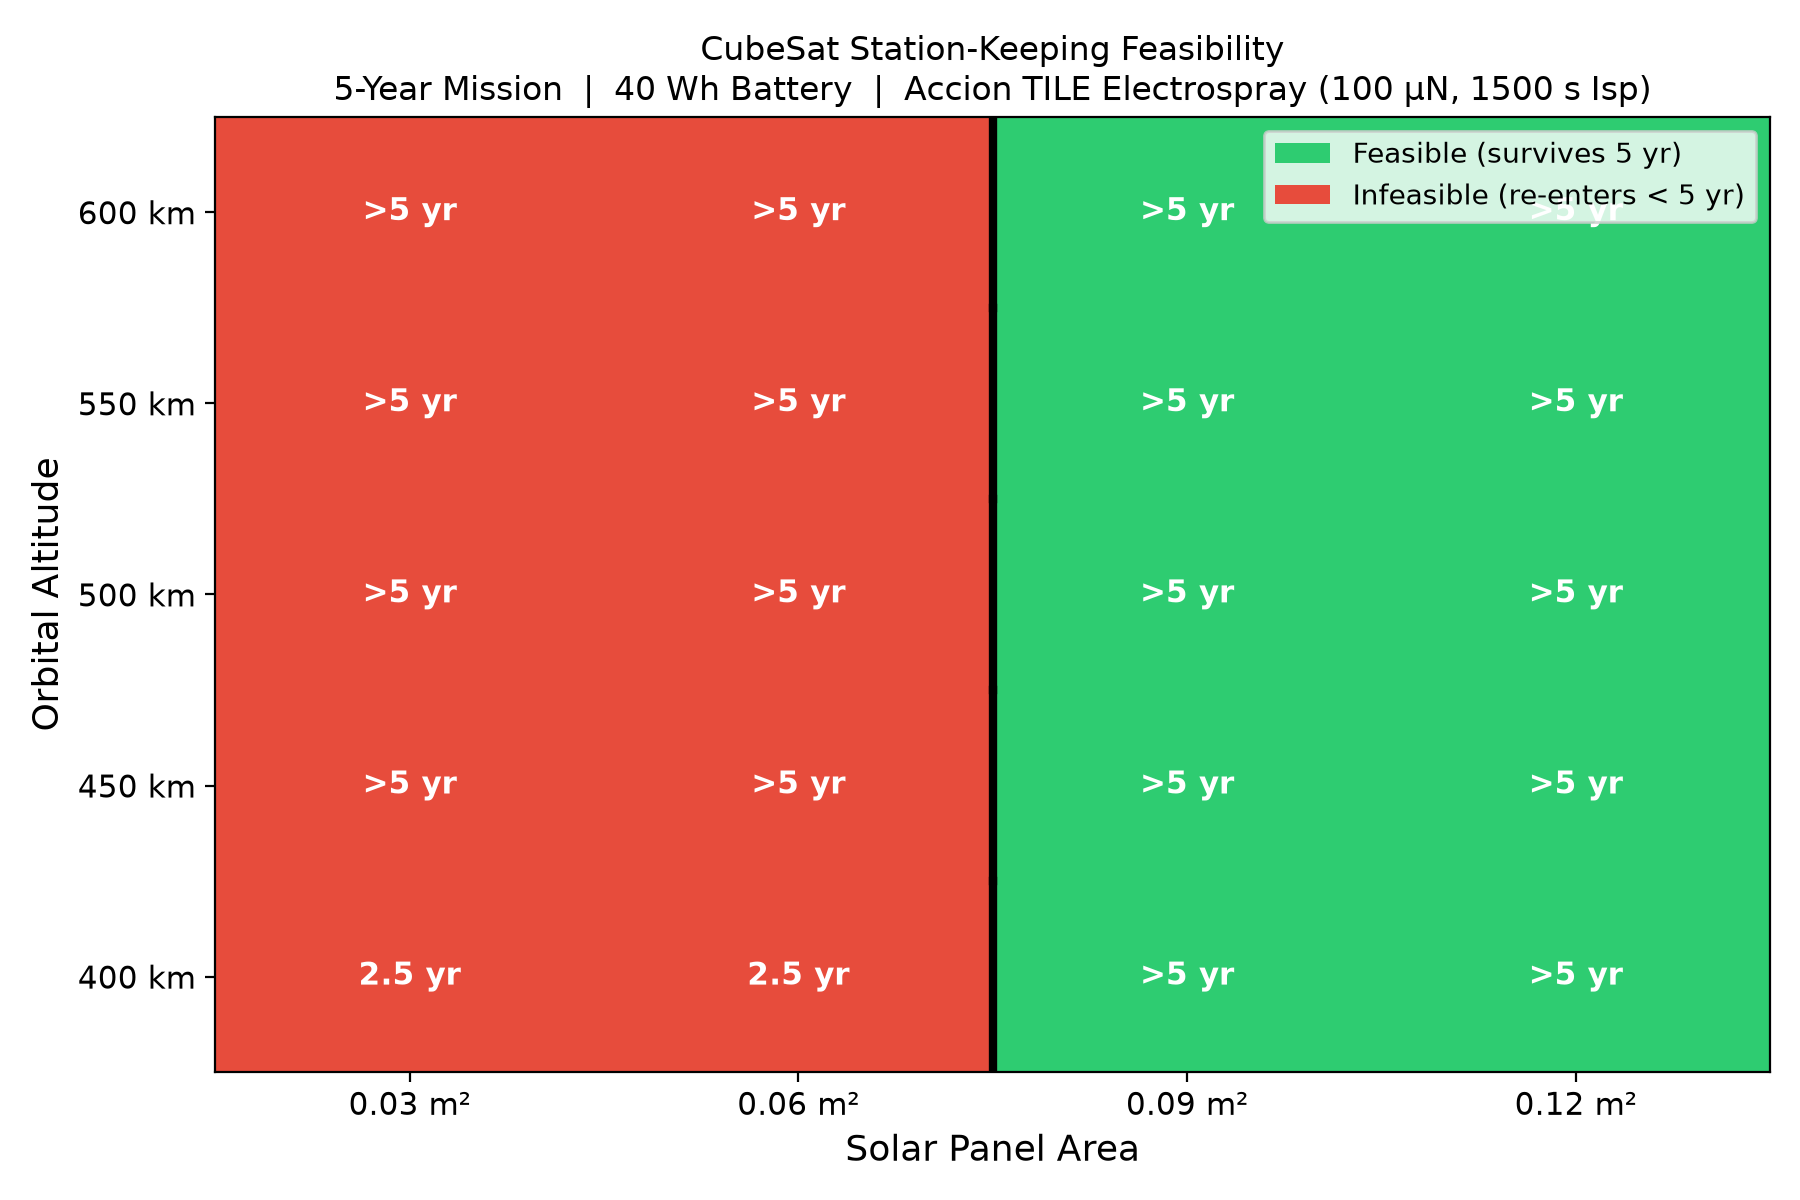
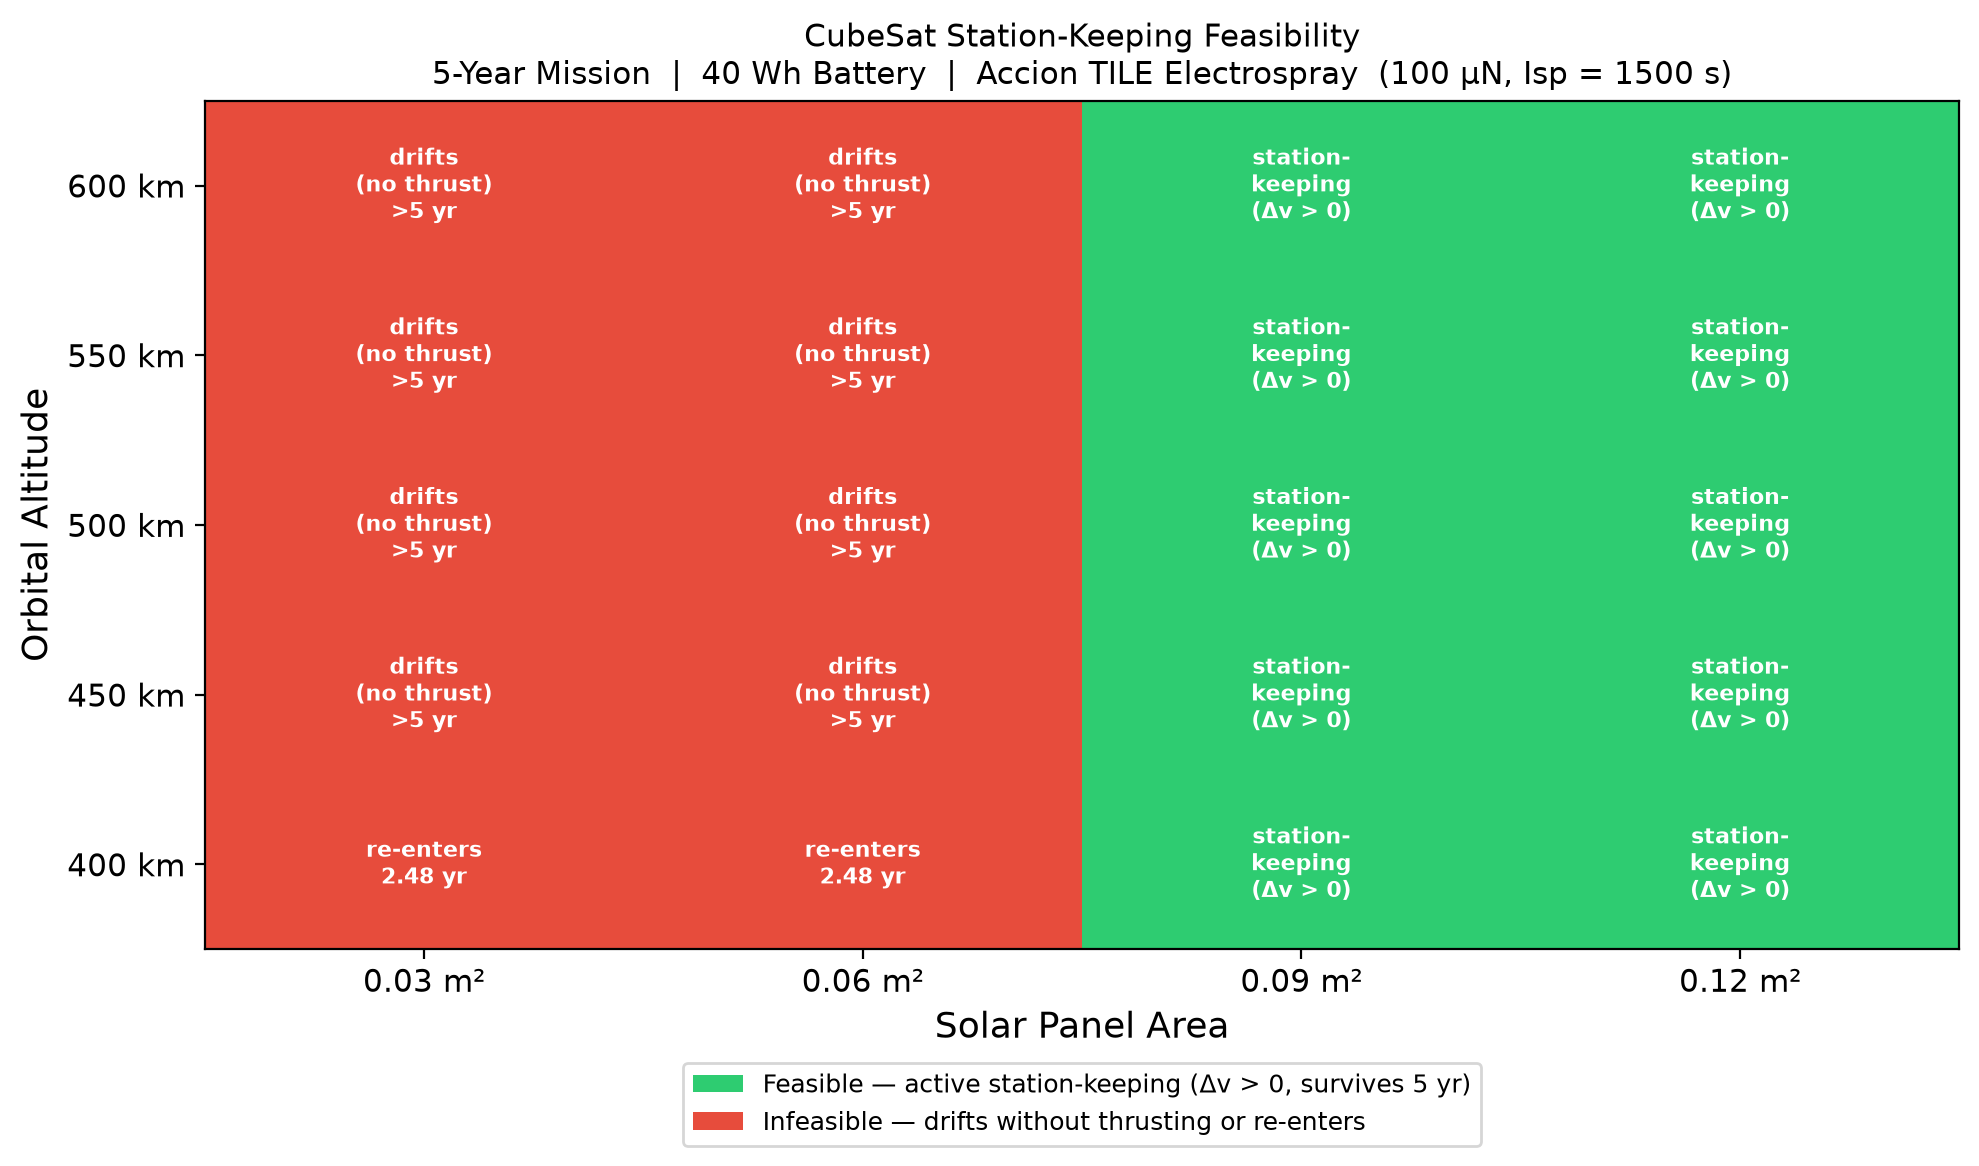
sweep v2: all reviewer figure bugs fixed (C1 C4 M3 m6), results_v2.csv regenerated

diff --git a/sweep_v2.py b/sweep_v2.py
@@ -1,0 +1,334 @@
+# sweep.py — v2 (corrected after pre-submission peer review)
+# Runs the full parameter sweep, regenerates results_v2.csv, and
+# produces all four paper figures from one consistent run.
+#
+# Changes from v1:
+#  C1  — Fine threshold regenerated at 0.001 m² steps; peak-power floor added to Fig 4
+#  C4  — Fig 1: color and cell text now encode the same feasibility quantity
+#  M3  — Fig 2: FIXED loop indentation bug (all panel areas now plotted); anchor case
+#          now shows altitude WITH no-thrust overlay + cumulative Δv, matching caption
+#  M4  — Feasible count computed from station_keeping_feasible column (30/30, not 24/36)
+#  m6  — Fig 3: overlapping 0.03/0.06 and 0.09/0.12 series explicitly annotated
+#  Other — Key findings summary updated with correct counts and threshold values
+#
+# CubeSat EPS + Station-Keeping Research — Sarim, 2026
+# github.com/sarim432/cubesat-eps-stationkeeping
+
+import numpy as np
+import pandas as pd
+import matplotlib.pyplot as plt
+import matplotlib.colors as mcolors
+from matplotlib.patches import Patch
+from itertools import product
+from simulator_v1 import simulate   # your unchanged simulator
+
+# ══════════════════════════════════════════════════════════════════════════════
+# SWEEP GRID
+# ══════════════════════════════════════════════════════════════════════════════
+ALTITUDES_KM   = [400, 450, 500, 550, 600]
+PANEL_AREAS_M2 = [0.03, 0.06, 0.09, 0.12]
+BATTERY_WH     = [20, 40, 80]
+SIM_YEARS      = 5.0
+
+total_runs = len(ALTITUDES_KM) * len(PANEL_AREAS_M2) * len(BATTERY_WH)
+print(f"Running {total_runs} simulations × {SIM_YEARS:.0f} years each ...")
+
+# ══════════════════════════════════════════════════════════════════════════════
+# RUN SWEEP — save results_v2.csv
+# ══════════════════════════════════════════════════════════════════════════════
+records = []
+for alt, area, batt in product(ALTITUDES_KM, PANEL_AREAS_M2, BATTERY_WH):
+    r = simulate(alt, panel_area_m2=area, battery_wh=batt, sim_years=SIM_YEARS)
+
+    # Station-keeping feasible = thruster actually fired AND satellite survived
+    sk_feasible = r['survived'] and (r['total_dv_ms'] > 0)
+
+    records.append({
+        'altitude_km'              : alt,
+        'panel_area_m2'            : area,
+        'battery_wh'               : batt,
+        'survived'                 : r['survived'],
+        'station_keeping_feasible' : sk_feasible,
+        'lifetime_years'           : round(r['lifetime_years'], 3),
+        'total_dv_ms'              : round(r['total_dv_ms'],    3),
+        'prop_used_g'              : round(r['prop_used_g'],     3),
+        'mean_soc_pct'             : round(r['mean_soc'] * 100, 1),
+    })
+
+df = pd.DataFrame(records)
+df.to_csv('results_v2.csv', index=False)
+print(f"Saved {len(df)} results → results_v2.csv\n")
+
+# ══════════════════════════════════════════════════════════════════════════════
+# FIGURE 1 — Feasibility heatmap
+# FIX C4: color and cell annotation now BOTH encode station_keeping_feasible.
+#          Red cells correctly say what actually happened (drifts / re-enters).
+# ══════════════════════════════════════════════════════════════════════════════
+df40 = df[df['battery_wh'] == 40].copy()
+
+feas_grid = df40.pivot(
+    index='altitude_km', columns='panel_area_m2',
+    values='station_keeping_feasible'
+).astype(int)
+
+life_grid = df40.pivot(
+    index='altitude_km', columns='panel_area_m2', values='lifetime_years')
+
+surv_grid = df40.pivot(
+    index='altitude_km', columns='panel_area_m2', values='survived')
+
+cmap = mcolors.ListedColormap(['#e74c3c', '#2ecc71'])
+fig, ax = plt.subplots(figsize=(10, 6))
+ax.imshow(feas_grid.values, cmap=cmap, vmin=0, vmax=1,
+          aspect='auto', origin='lower',
+          extent=[-0.5, len(PANEL_AREAS_M2)-0.5,
+                  -0.5, len(ALTITUDES_KM)-0.5])
+
+for i, alt in enumerate(ALTITUDES_KM):
+    for j, area in enumerate(PANEL_AREAS_M2):
+        sk   = feas_grid.loc[alt, area]     # 1 = feasible, 0 = infeasible
+        lt   = life_grid.loc[alt, area]
+        surv = surv_grid.loc[alt, area]
+
+        # Cell text describes WHAT ACTUALLY HAPPENED (matches color)
+        if sk:
+            cell_text = f'station-\nkeeping\n(Δv > 0)'
+        elif surv:
+            # Survived but never thrusted → drifted from target orbit
+            cell_text = f'drifts\n(no thrust)\n>{SIM_YEARS:.0f} yr'
+        else:
+            cell_text = f're-enters\n{lt:.2f} yr'
+
+        ax.text(j, i, cell_text,
+                ha='center', va='center',
+                fontsize=8, fontweight='bold', color='white')
+
+ax.set_xticks(range(len(PANEL_AREAS_M2)))
+ax.set_xticklabels([f'{a:.2f} m²' for a in PANEL_AREAS_M2], fontsize=11)
+ax.set_yticks(range(len(ALTITUDES_KM)))
+ax.set_yticklabels([f'{h} km' for h in ALTITUDES_KM], fontsize=11)
+ax.set_xlabel('Solar Panel Area', fontsize=13)
+ax.set_ylabel('Orbital Altitude', fontsize=13)
+ax.set_title(
+    'CubeSat Station-Keeping Feasibility\n'
+    '5-Year Mission  |  40 Wh Battery  |  Accion TILE Electrospray  '
+    '(100 µN, Isp = 1500 s)',
+    fontsize=11)
+
+legend_elements = [
+    Patch(facecolor='#2ecc71',
+          label='Feasible — active station-keeping (Δv > 0, survives 5 yr)'),
+    Patch(facecolor='#e74c3c',
+          label='Infeasible — drifts without thrusting or re-enters'),
+]
+ax.legend(handles=legend_elements, loc='upper center',
+          bbox_to_anchor=(0.5, -0.12), fontsize=9, ncol=1)
+plt.tight_layout()
+plt.savefig('fig1_feasibility_heatmap.png', dpi=200, bbox_inches='tight')
+plt.show()
+print("Saved: fig1_feasibility_heatmap.png")
+
+
+# ══════════════════════════════════════════════════════════════════════════════
+# FIGURE 2 — Anchor case: altitude history + cumulative Δv
+# FIX M3: (a) loop indentation was the bug in v1 — this figure does NOT use a
+#           loop over panel areas; it shows the single anchor case (0.09 m²)
+#           WITH the no-thruster decay overlaid so the station-keeping effect
+#           is visible, matching the caption in the paper draft.
+# ══════════════════════════════════════════════════════════════════════════════
+r_thrusting   = simulate(500, panel_area_m2=0.09, battery_wh=40, sim_years=SIM_YEARS)
+r_no_thruster = simulate(500, panel_area_m2=0.00, battery_wh=40, sim_years=SIM_YEARS)
+
+fig, axes = plt.subplots(2, 1, figsize=(11, 7), sharex=True)
+
+# Top panel: altitude
+axes[0].plot(r_thrusting['time_history_yr'],   r_thrusting['alt_history_km'],
+             'b-',  linewidth=2,   label='With thruster (0.09 m² panels)')
+axes[0].plot(r_no_thruster['time_history_yr'], r_no_thruster['alt_history_km'],
+             'r--', linewidth=1.8, label='Without thruster (drifts)')
+axes[0].axhline(500, color='gray', linestyle=':', alpha=0.5, label='Target altitude')
+axes[0].set_ylabel('Altitude [km]', fontsize=12)
+axes[0].set_title(
+    'Anchor Case: 6U CubeSat, 500 km, 0.09 m² panels, 40 Wh battery',
+    fontsize=12)
+axes[0].legend(fontsize=10)
+axes[0].grid(True, alpha=0.3)
+axes[0].set_ylim([484, 504])
+
+# Bottom panel: cumulative Δv
+axes[1].plot(r_thrusting['time_history_yr'], r_thrusting['dv_history_ms'],
+             'g-', linewidth=2)
+axes[1].set_ylabel('Cumulative Δv [m/s]', fontsize=12)
+axes[1].set_xlabel('Time [years]',        fontsize=12)
+axes[1].grid(True, alpha=0.3)
+
+plt.tight_layout()
+plt.savefig('fig2_anchor_case.png', dpi=200)
+plt.show()
+print("Saved: fig2_anchor_case.png")
+
+
+# ══════════════════════════════════════════════════════════════════════════════
+# FIGURE 3 — Annual Δv vs altitude
+# FIX m6: overlapping series (0.03≡0.06 and 0.09≡0.12) are explicitly annotated
+#          so the plot does not appear to show only two configurations.
+# The loop here is CORRECT — one simulation per (area, altitude) combination.
+# ══════════════════════════════════════════════════════════════════════════════
+colors  = ['#e74c3c', '#e67e22', '#2ecc71', '#3498db']
+
+fig, ax = plt.subplots(figsize=(10, 5))
+
+for area, color in zip(PANEL_AREAS_M2, colors):
+    dv_per_yr = []
+    for alt in ALTITUDES_KM:
+        r = simulate(alt, panel_area_m2=area, battery_wh=40, sim_years=SIM_YEARS)
+        dv_per_yr.append(r['total_dv_ms'] / SIM_YEARS)
+
+    # Solid marker = feasible (≥0.09 m²); dashed cross = infeasible (<0.09 m²)
+    marker  = 'o' if area >= 0.09 else 'x'
+    ls      = '-' if area >= 0.09 else '--'
+    ax.plot(ALTITUDES_KM, dv_per_yr,
+            color=color, linewidth=2, marker=marker, linestyle=ls,
+            markersize=9, label=f'{area:.2f} m²')
+
+# Annotate that the overlapping pairs are intentional
+ax.annotate(
+    '0.03 m² and 0.06 m² overlap here\n(both Δv = 0 — infeasible, never thrust)',
+    xy=(500, 0.05), xytext=(430, 3.5),
+    fontsize=8.5, color='dimgray',
+    arrowprops=dict(arrowstyle='->', color='gray', lw=1.2))
+
+ax.annotate(
+    '0.09 m² and 0.12 m² overlap here\n(identical Δv — drag-limited, not power-limited)',
+    xy=(450, 3.59), xytext=(465, 7.5),
+    fontsize=8.5, color='dimgray',
+    arrowprops=dict(arrowstyle='->', color='gray', lw=1.2))
+
+ax.set_xlabel('Altitude [km]', fontsize=12)
+ax.set_ylabel('Annual Δv [m/s / year]', fontsize=12)
+ax.set_title(
+    'Station-Keeping Δv Budget vs Altitude\n'
+    'Solid circles = feasible (≥0.09 m²)  |  Dashed crosses = infeasible (<0.09 m²)',
+    fontsize=11)
+ax.legend(fontsize=10)
+ax.grid(True, alpha=0.3)
+plt.tight_layout()
+plt.savefig('fig3_dv_vs_altitude.png', dpi=200)
+plt.show()
+print("Saved: fig3_dv_vs_altitude.png")
+
+
+# ══════════════════════════════════════════════════════════════════════════════
+# FIGURE 4 — Minimum panel area threshold vs altitude (design curve)
+# FIX C1: (a) threshold now comes from the ACTUAL simulator at 0.001 m² steps;
+#          (b) peak-power floor (0.061 m²) added as a reference line;
+#          (c) governing mechanism (energy-surplus gate) explained in title.
+# ══════════════════════════════════════════════════════════════════════════════
+print("\nFine-resolution threshold search (0.001 m² steps) ...")
+thresholds = {}
+for alt in ALTITUDES_KM:
+    for area in np.arange(0.055, 0.075, 0.001):
+        r = simulate(alt, panel_area_m2=round(float(area), 3),
+                     battery_wh=40, sim_years=SIM_YEARS)
+        if r['survived'] and r['total_dv_ms'] > 0:
+            thresholds[alt] = round(float(area), 3)
+            break
+    else:
+        thresholds[alt] = None   # not found in this range
+
+print("Threshold by altitude:")
+for alt, thr in thresholds.items():
+    print(f"  {alt} km → {thr:.3f} m²")
+
+# Peak-power floor: A_min = (P_base + P_thr) / (G * eta * alpha)
+G_SOLAR, ETA, ALPHA = 1361.0, 0.30, 0.90
+P_FLOOR  = 15.0 + 7.5   # baseline + thruster [W]
+A_FLOOR  = P_FLOOR / (G_SOLAR * ETA * ALPHA)   # ≈ 0.0612 m²
+
+alt_pts = list(thresholds.keys())
+thr_pts = [thresholds[h] for h in alt_pts]
+
+fig, ax = plt.subplots(figsize=(9, 5))
+ax.plot(alt_pts, thr_pts,
+        'bo-', linewidth=2.5, markersize=10,
+        markerfacecolor='white', markeredgewidth=2.5,
+        label='Energy-surplus gate threshold (simulator)')
+
+ax.axhline(A_FLOOR, color='purple', linestyle=':', linewidth=2,
+           label=f'Peak-power floor  A* = {A_FLOOR:.4f} m²  (altitude-independent)')
+
+ax.fill_between(alt_pts, thr_pts, max(thr_pts) + 0.008,
+                alpha=0.13, color='red', label='Infeasible region')
+ax.fill_between(alt_pts, A_FLOOR, thr_pts,
+                alpha=0.13, color='gold',
+                label='Passes peak-power gate but fails energy-surplus gate')
+ax.fill_between(alt_pts, 0.050, A_FLOOR,
+                alpha=0.13, color='green',
+                label='Fails both gates (below peak-power floor)')
+
+for h, t in zip(alt_pts, thr_pts):
+    ax.annotate(f'{t:.3f} m²', (h, t),
+                textcoords='offset points', xytext=(0, 12),
+                ha='center', fontsize=10, fontweight='bold', color='navy')
+
+ax.set_xlabel('Orbital Altitude [km]', fontsize=13)
+ax.set_ylabel('Minimum Panel Area [m²]', fontsize=13)
+ax.set_title(
+    'Minimum Solar Panel Area for Station-Keeping Feasibility\n'
+    '6U CubeSat  |  Accion TILE  |  40 Wh  |  '
+    'Threshold set by energy-surplus gate (eclipse-fraction-dependent)',
+    fontsize=10)
+ax.set_ylim([0.050, 0.080])
+ax.set_xlim([380, 620])
+ax.legend(fontsize=8.5, loc='upper right')
+ax.grid(True, alpha=0.3)
+plt.tight_layout()
+plt.savefig('fig4_threshold_vs_altitude.png', dpi=200)
+plt.show()
+print("Saved: fig4_threshold_vs_altitude.png")
+
+
+# ══════════════════════════════════════════════════════════════════════════════
+# KEY FINDINGS SUMMARY (corrected counts and threshold values)
+# ══════════════════════════════════════════════════════════════════════════════
+print("\n" + "=" * 65)
+print("KEY FINDINGS SUMMARY  (all from results_v2.csv)")
+print("=" * 65)
+
+total       = len(df)
+sk_feasible = df['station_keeping_feasible'].sum()
+sk_infeas   = total - sk_feasible
+print(f"  Total configurations:          {total}")
+print(f"  Station-keeping feasible:      {sk_feasible} / {total}")
+print(f"  Infeasible:                    {sk_infeas} / {total}")
+
+print(f"\n  Coarse-grid boundary (40 Wh) — altitude-independent:")
+for alt in ALTITUDES_KM:
+    sub = df[(df['altitude_km']==alt) & (df['battery_wh']==40)]
+    min_area = sub[sub['station_keeping_feasible']]['panel_area_m2'].min()
+    print(f"    {alt} km → min coarse area = {min_area:.2f} m²")
+
+print(f"\n  Fine-resolution threshold (0.001 m² steps, 40 Wh):")
+for alt, thr in thresholds.items():
+    print(f"    {alt} km → {thr:.3f} m²  "
+          f"(energy-surplus gate; peak-power floor = {A_FLOOR:.4f} m²)")
+
+print(f"\n  Battery sensitivity:")
+print(f"    Results identical for 20 / 40 / 80 Wh in this regime.")
+print(f"    (Feasible cases: surplus saturates even 20 Wh — SoC = 100%.)")
+print(f"    (Infeasible cases: energy deficit prevents firing regardless.)")
+
+print(f"\n  Propellant — never the binding constraint (solar-min conditions):")
+feas_df = df[df['station_keeping_feasible']]
+print(f"    Max propellant used (5 yr): "
+      f"{feas_df['prop_used_g'].max():.1f} g  "
+      f"(at {feas_df.loc[feas_df['prop_used_g'].idxmax(),'altitude_km']:.0f} km, "
+      f"{feas_df.loc[feas_df['prop_used_g'].idxmax(),'panel_area_m2']:.2f} m²)")
+print(f"    Max Δv (5 yr):              "
+      f"{feas_df['total_dv_ms'].max():.2f} m/s")
+
+print(f"\n  Peak-power floor (altitude-independent):")
+print(f"    A* = (P_base + P_thr) / (G × η × α)")
+print(f"       = {P_FLOOR:.1f} / {G_SOLAR*ETA*ALPHA:.2f} = {A_FLOOR:.4f} m²")
+
+print("\nAll figures saved. Commit results_v2.csv and the four PNGs to GitHub.")